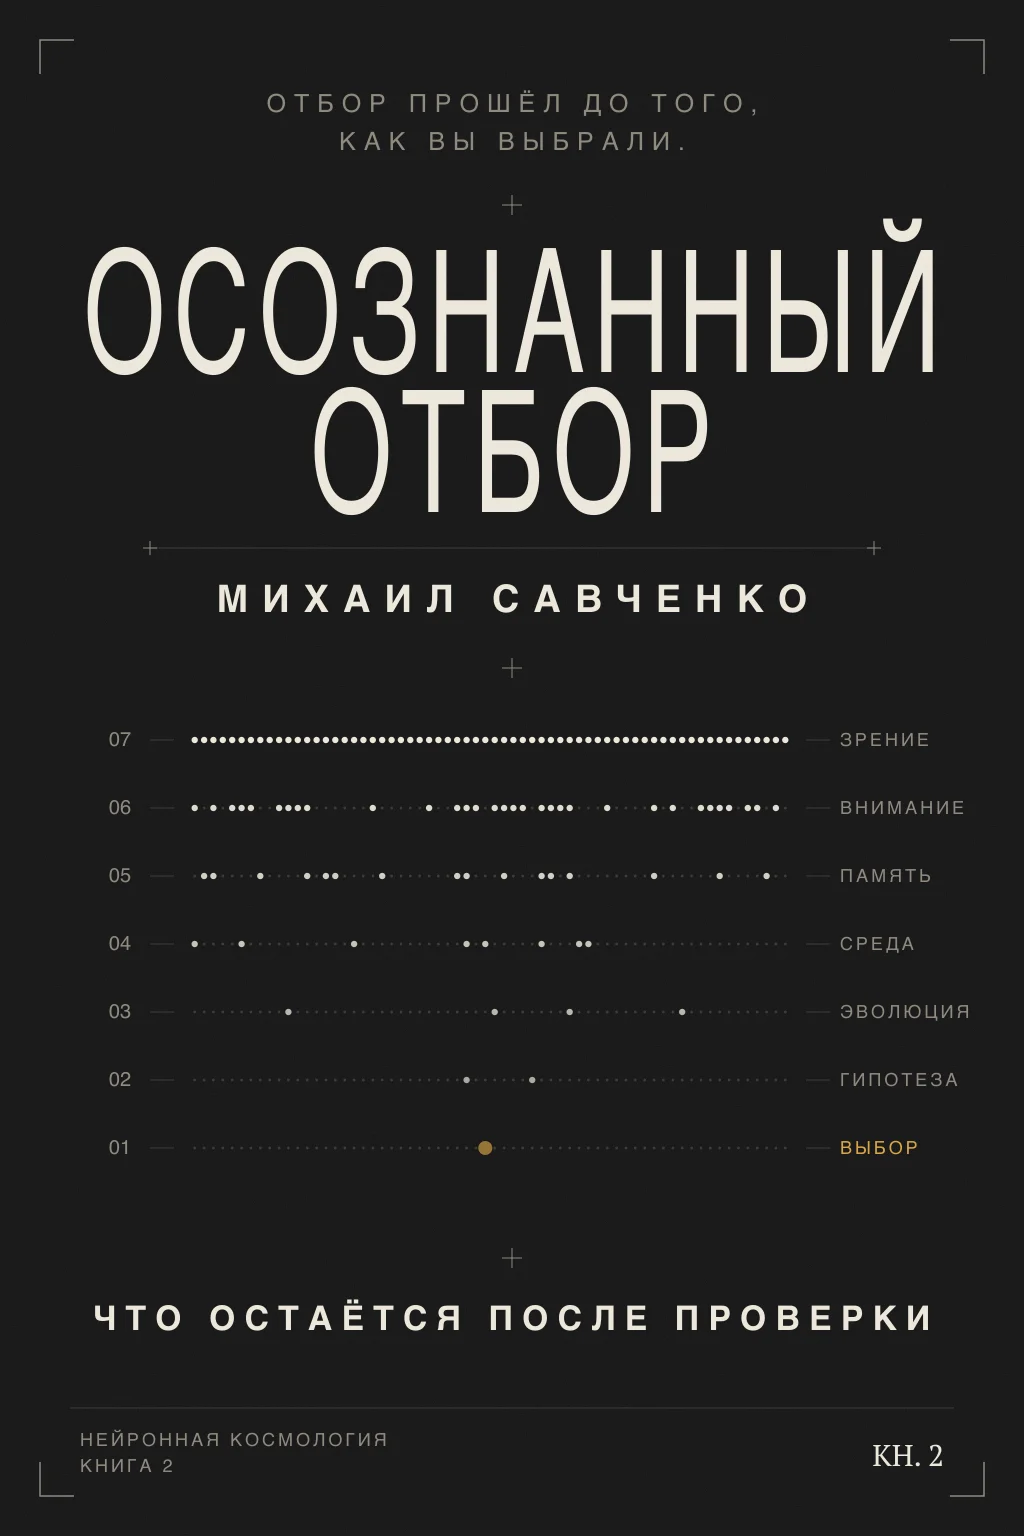
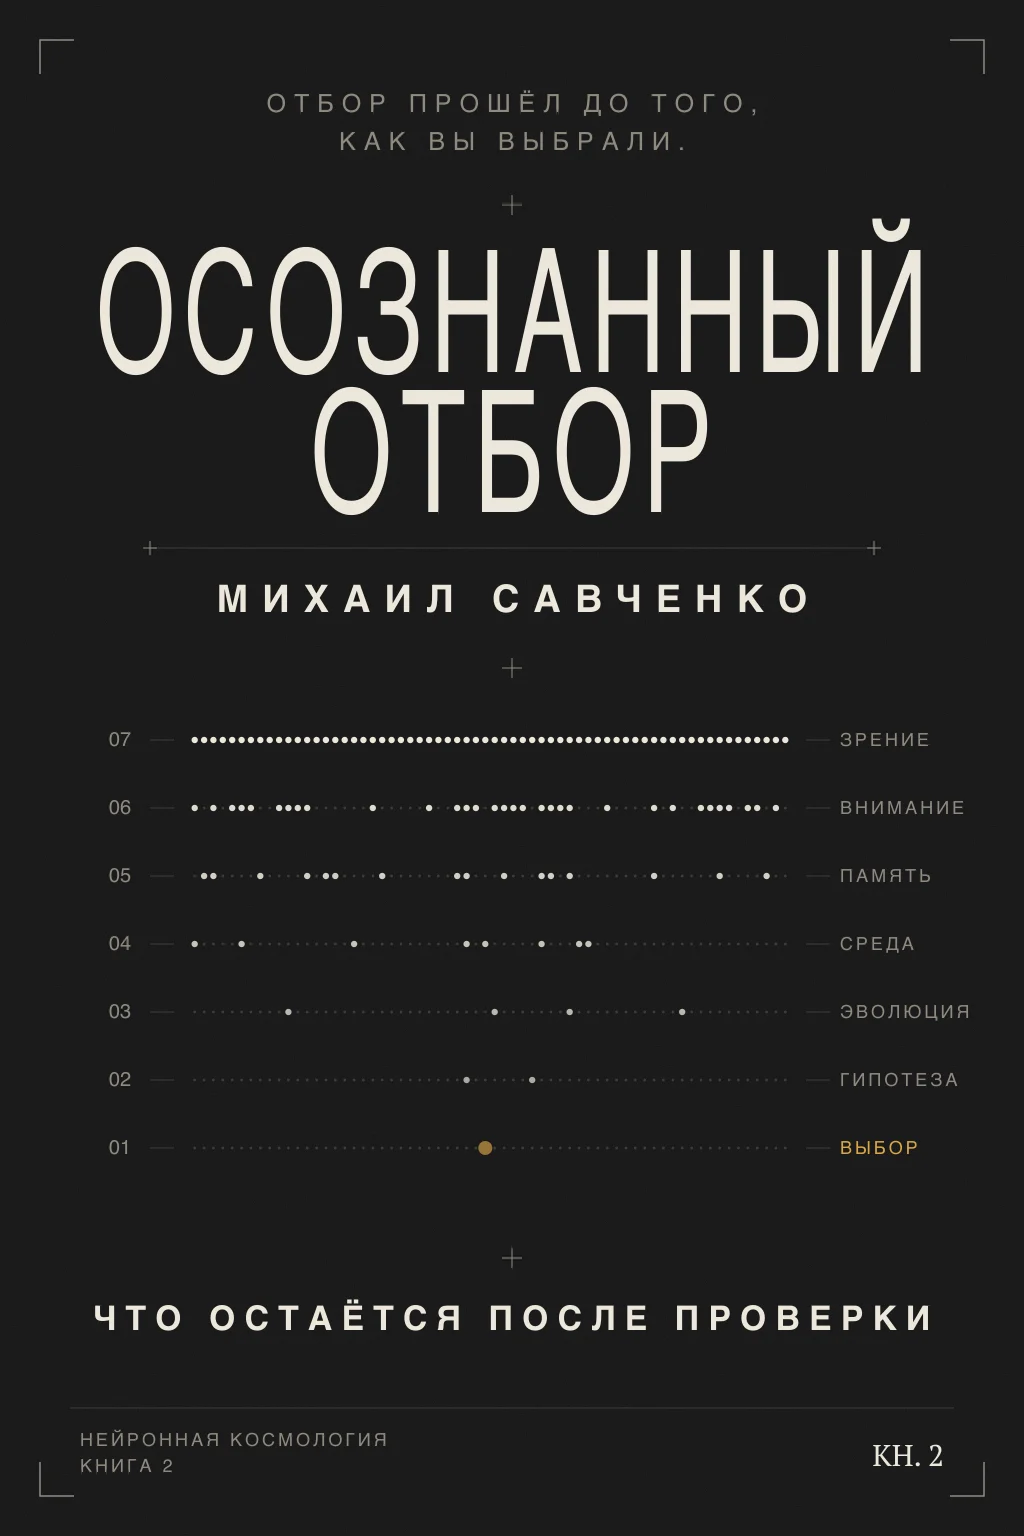
Обложки книг на языке страницы: en/pt/es переведены, ru — оригинал из книги. (#4)
- «Небесный Код», «Академия Багов», «Эра Архитекторов»: переводы оригинальных обложек
  (gpt-image-2 по образцу, рисунок и вёрстка те же; исходники и plan.json в
  godacademy/assets/covers/src/neuralcosmology-i18n). В «Академии» игра слов сохранена:
  GODS / DEUSES / DIOSES зачёркнуты, сверху BUG(S).
- «Осознанный Отбор»: генератор принимает язык (scripts/covers/conscious-selection.py ru|en|pt|es).
- coverFor/ogCoverFor: карточки, страница книги, главная, OG и Book-разметка, books/index.json, MCP.
- Описание проверки текста на ИИ уточнено по просьбе сессии mikefluff.com: подсвечивает
  обороты, по которым текст читается как ChatGPT, авторство не определяет.

diff --git a/src/content/other-books.ts b/src/content/other-books.ts
@@ -32,24 +32,24 @@ export const OTHER_BOOKS_COPY: Record<SupportedLocale, { label: string; all: str
     label: "Other books by the author",
     all: "All of Mikhail Savchenko's books, read online",
     checker: "AI text checker",
-    checkerAbout: "tells whether a text in English, Russian, Spanish or Portuguese was written by a language model; runs in the browser",
+    checkerAbout: "highlights the phrases that make a text in English, Russian, Spanish or Portuguese read like ChatGPT; runs in the browser",
   },
   ru: {
     label: "Другие книги автора",
     all: "Все книги Михаила Савченко, читать онлайн",
     checker: "Проверка текста на ИИ",
-    checkerAbout: "показывает, написан ли текст на русском, английском, испанском или португальском языковой моделью; работает в браузере",
+    checkerAbout: "подсвечивает обороты, по которым текст на русском, английском, испанском или португальском читается как написанный ChatGPT; работает в браузере",
   },
   pt: {
     label: "Outros livros do autor",
     all: "Todos os livros de Mikhail Savchenko, para ler online",
     checker: "Verificador de texto de IA",
-    checkerAbout: "mostra se um texto em português, inglês, espanhol ou russo foi escrito por um modelo de linguagem; funciona no navegador",
+    checkerAbout: "destaca as frases que fazem um texto em português, inglês, espanhol ou russo soar como ChatGPT; funciona no navegador",
   },
   es: {
     label: "Otros libros del autor",
     all: "Todos los libros de Mikhail Savchenko, para leer en línea",
     checker: "Detector de texto de IA",
-    checkerAbout: "indica si un texto en español, inglés, portugués o ruso lo escribió un modelo de lenguaje; funciona en el navegador",
+    checkerAbout: "resalta las frases que hacen que un texto en español, inglés, portugués o ruso suene a ChatGPT; funciona en el navegador",
   },
 };

diff --git a/src/app/[locale]/books/[slug]/page.tsx b/src/app/[locale]/books/[slug]/page.tsx
@@ -4,7 +4,7 @@ import { social } from "@/lib/og";
 import { notFound } from "next/navigation";
 import Link from "next/link";
 import Image from "next/image";
-import { getBookBySlug } from "@/content/books";
+import { coverFor, getBookBySlug, ogCoverFor } from "@/content/books";
 import { Sheet, Label, Headline } from "@/components/system";
 import { isSupportedLocale, SUPPORTED_LOCALES, type SupportedLocale } from "@/lib/get-locale";
 import { getDict, pickLocalized } from "@/lib/i18n";
@@ -55,7 +55,7 @@ export async function generateMetadata({
         "x-default": `${base}/en/books/${slug}`,
       },
     },
-    ...social({ title, description: hook, url: `${base}/${locale}/books/${slug}`, kind: "book", locale, type: "book", image: `/og/covers/${slug}.png` }),
+    ...social({ title, description: hook, url: `${base}/${locale}/books/${slug}`, kind: "book", locale, type: "book", image: ogCoverFor(slug, locale) }),
   };
 }
 
@@ -115,7 +115,7 @@ export default async function BookDetailPage({
           synopsis,
           genre: genreLabel[book.genre],
           status: book.status,
-          coverImage: book.coverImage,
+          coverImage: coverFor(book, locale),
           availableTranslations,
           publicationDate: book.publicationDate,
           pages: book.pages,
@@ -145,7 +145,7 @@ export default async function BookDetailPage({
         <div className="grid lg:grid-cols-[minmax(0,5fr)_minmax(0,7fr)]">
           <div className="py-10 md:px-10 lg:rule-r lg:py-16">
             <div className="relative mx-auto aspect-[2/3] max-w-sm overflow-hidden hairline lg:max-w-none">
-              <Image src={book.coverImage} alt={title} fill sizes="(min-width: 1024px) 460px, 90vw" className="object-cover" priority />
+              <Image src={coverFor(book, locale)} alt={title} fill sizes="(min-width: 1024px) 460px, 90vw" className="object-cover" priority />
             </div>
           </div>
 

diff --git a/src/app/[locale]/read/[slug]/[chapter]/page.tsx b/src/app/[locale]/read/[slug]/[chapter]/page.tsx
@@ -3,7 +3,7 @@ import { Price, CurrencyPicker } from "@/components/pricing/Price";
 import { clipDescription, social } from "@/lib/og";
 import Link from "next/link";
 import { notFound } from "next/navigation";
-import { getBookBySlug } from "@/content/books";
+import { getBookBySlug, ogCoverFor } from "@/content/books";
 import { isSupportedLocale, type SupportedLocale } from "@/lib/get-locale";
 import { getDict, pickLocalized } from "@/lib/i18n";
 import { chapterIndexable, getChapterHtml, getManifest, leadIn, libraryLangs, resolveBookLang, topLevelAt, type LibraryChapter } from "@/lib/library";
@@ -72,7 +72,7 @@ export async function generateMetadata({ params }: { params: Params }): Promise<
     : undefined;
   // Превью ссылки — иллюстрация главы, если она есть; иначе обложка книги.
   const lead = leadIllustration(illustrations(slug, id));
-  const image = lead ? `/book/ill/${lead.id}.og.jpg` : `/og/covers/${slug}.png`;
+  const image = lead ? `/book/ill/${lead.id}.og.jpg` : ogCoverFor(slug, d.lang);
   return {
     title,
     description: clipDescription(d.chapter.excerpt),

diff --git a/src/components/home/sections.tsx b/src/components/home/sections.tsx
@@ -2,7 +2,7 @@ import Image from "next/image";
 import Link from "next/link";
 import type { SupportedLocale } from "@/lib/get-locale";
 import { getDict } from "@/lib/i18n";
-import { books } from "@/content/books";
+import { books, coverFor } from "@/content/books";
 import { pickLocalized } from "@/lib/i18n";
 import { faqByLocale } from "@/content/faq";
 import type { CSSProperties, ReactNode } from "react";
@@ -500,7 +500,7 @@ export function HomeBooks({ locale }: { locale: SupportedLocale }) {
                 tabIndex={-1}
                 className="absolute right-6 bottom-8 hidden w-[34%] max-w-44 rotate-[4deg] shadow-[0_24px_60px_-20px_rgb(0_0_0/.7)] transition-transform duration-700 ease-(--ease-soft) group-hover:-translate-y-2 group-hover:rotate-[2deg] sm:block md:-right-3 md:bottom-auto md:top-24 lg:-right-5"
               >
-                <Image src={b.coverImage} alt="" width={600} height={900} sizes="200px" className="h-auto w-full" />
+                <Image src={coverFor(b, locale)} alt="" width={600} height={900} sizes="200px" className="h-auto w-full" />
               </Link>
             </article>
           );

diff --git a/src/components/ui/BookCard.tsx b/src/components/ui/BookCard.tsx
@@ -3,6 +3,7 @@ import Image from "next/image";
 import type { Book } from "@/types/book";
 import type { SupportedLocale } from "@/lib/get-locale";
 import { getDict, pickLocalized } from "@/lib/i18n";
+import { coverFor } from "@/content/books";
 
 // Ячейка книги: обложка → жанр/статус → название → хук. Без скруглений и теней.
 export default function BookCard({ book, locale, index }: { book: Book; locale: SupportedLocale; index?: number }) {
@@ -18,7 +19,7 @@ export default function BookCard({ book, locale, index }: { book: Book; locale: 
     <Link href={`/${locale}/books/${book.slug}`} className="group flex flex-col bg-bg p-5 md:p-7 transition-colors hover:bg-bg-raised">
       <div className="relative aspect-[2/3] overflow-hidden bg-bg-sunk hairline">
         <Image
-          src={book.coverImage}
+          src={coverFor(book, locale)}
           alt={title}
           fill
           sizes="(min-width: 1280px) 280px, (min-width: 640px) 45vw, 100vw"

diff --git a/src/lib/agent/mcp.ts b/src/lib/agent/mcp.ts
@@ -5,7 +5,7 @@ import { search } from "@/lib/agent/search";
 import { catalog } from "@/lib/agent/catalog";
 import { CheckoutError, createAgentCheckout } from "@/lib/agent/checkout";
 import { ownsBook } from "@/lib/access";
-import { books } from "@/content/books";
+import { books, coverFor } from "@/content/books";
 import { siteUrl } from "@/lib/auth";
 import {
   catalogApp,
@@ -160,7 +160,7 @@ async function callTool(name: string, args: Record<string, unknown>, ctx: Ctx): 
         .map((b) => ({
           title: b.titles[locale] ?? b.titles.en,
           subtitle: (b.hook as Record<string, string>)[locale] ?? (b.hook as Record<string, string>).en,
-          image: b.coverImage ? `${site}${b.coverImage}` : undefined,
+          image: b.coverImage ? `${site}${coverFor(b, locale)}` : undefined,
           price: formatPrice(PRICES.book.USD, "USD"),
           url: `${site}/${locale}/books/${b.slug}`,
           ...(ctx.reader

diff --git a/src/lib/schema.ts b/src/lib/schema.ts
@@ -1,5 +1,6 @@
 import type { SupportedLocale } from "@/lib/get-locale";
 import { SUPPORTED_LOCALES } from "@/lib/get-locale";
+import { ogCoverFor } from "@/content/books";
 
 export const SITE_URL = "https://neuralcosmology.com";
 export const AUTHOR_NAME = "Mikhail Savchenko";
@@ -192,7 +193,7 @@ export function bookSchema(args: {
     bookFormat: "https://schema.org/EBook",
     creativeWorkStatus: bookStatus,
     // Растровая обложка первой: SVG Google в расширенных результатах не берёт.
-    image: [`${SITE_URL}/og/covers/${args.slug}.png`, cover],
+    image: [`${SITE_URL}${ogCoverFor(args.slug, args.locale)}`, cover],
     author: { "@id": `${SITE_URL}/#person` },
     publisher: { "@id": `${SITE_URL}/#organization` },
     isPartOf: { "@id": `${SITE_URL}/#website` },

diff --git a/src/content/books.ts b/src/content/books.ts
@@ -184,6 +184,16 @@ export const books: Book[] = [
   },
 ];
 
+// Обложка на языке страницы: ru — оригинал из книги (/covers/<slug>.webp),
+// en/pt/es — переведённые (/covers/<slug>-<lang>.webp). OG-версии — PNG 600×900 в /og/covers.
+export function coverFor(book: Pick<Book, "coverImage">, locale: string): string {
+  return locale === "ru" ? book.coverImage : book.coverImage.replace(/\.webp$/, `-${locale}.webp`);
+}
+
+export function ogCoverFor(slug: string, locale: string): string {
+  return locale === "ru" ? `/og/covers/${slug}.png` : `/og/covers/${slug}-${locale}.png`;
+}
+
 export function getBookBySlug(slug: string): Book | undefined {
   return books.find((b) => b.slug === slug);
 }

diff --git a/src/app/[locale]/books/index.json/route.ts b/src/app/[locale]/books/index.json/route.ts
@@ -1,4 +1,4 @@
-import { books } from "@/content/books";
+import { books, coverFor } from "@/content/books";
 import { isSupportedLocale, SUPPORTED_LOCALES, type SupportedLocale } from "@/lib/get-locale";
 import { pickLocalized } from "@/lib/i18n";
 
@@ -29,7 +29,7 @@ export async function GET(
       genre: b.genre,
       pages: b.pages,
       publicationDate: b.publicationDate,
-      coverImage: `https://neuralcosmology.com${b.coverImage}`,
+      coverImage: `https://neuralcosmology.com${coverFor(b, locale)}`,
       companionPaperSlug: b.companionPaperSlug,
       url: `https://neuralcosmology.com/${locale}/books/${b.slug}`,
     })),

diff --git a/scripts/covers/conscious-selection.py b/scripts/covers/conscious-selection.py
@@ -1,7 +1,25 @@
 # Обложка «Осознанного Отбора» в системе обложек серии (ср. nk-cover.png «Небесного Кода»):
 # тёмное поле, метки обреза, узкий набор вразрядку. Своей обложки у книги в godacademy нет,
 # это рабочий вариант до настоящей. SVG -> PNG через rsvg-convert, затем webp (cwebp или sips).
-import os, random, subprocess
+import os, random, subprocess, sys
+
+# Надписи по языкам; ru — оригинал.
+TEXT = {
+    "ru": dict(top=("ОТБОР ПРОШЁЛ ДО ТОГО,", "КАК ВЫ ВЫБРАЛИ."), title=("ОСОЗНАННЫЙ", "ОТБОР"), author="МИХАИЛ САВЧЕНКО",
+               stages=["ЗРЕНИЕ", "ВНИМАНИЕ", "ПАМЯТЬ", "СРЕДА", "ЭВОЛЮЦИЯ", "ГИПОТЕЗА", "ВЫБОР"],
+               sub="ЧТО ОСТАЁТСЯ ПОСЛЕ ПРОВЕРКИ", series=("НЕЙРОННАЯ КОСМОЛОГИЯ", "КНИГА 2"), bk="КН. 2"),
+    "en": dict(top=("SELECTION HAPPENED", "BEFORE YOU CHOSE."), title=("CONSCIOUS", "SELECTION"), author="MIKHAIL SAVCHENKO",
+               stages=["SIGHT", "ATTENTION", "MEMORY", "ENVIRONMENT", "EVOLUTION", "HYPOTHESIS", "CHOICE"],
+               sub="WHAT REMAINS AFTER TESTING", series=("NEURAL COSMOLOGY", "BOOK 2"), bk="BK. 2"),
+    "pt": dict(top=("A SELEÇÃO ACONTECEU", "ANTES DE VOCÊ ESCOLHER."), title=("SELEÇÃO", "CONSCIENTE"), author="MIKHAIL SAVCHENKO",
+               stages=["VISÃO", "ATENÇÃO", "MEMÓRIA", "AMBIENTE", "EVOLUÇÃO", "HIPÓTESE", "ESCOLHA"],
+               sub="O QUE RESTA DEPOIS DO TESTE", series=("COSMOLOGIA NEURAL", "LIVRO 2"), bk="LIV. 2"),
+    "es": dict(top=("LA SELECCIÓN OCURRIÓ", "ANTES DE QUE ELIGIERAS."), title=("SELECCIÓN", "CONSCIENTE"), author="MIKHAIL SAVCHENKO",
+               stages=["VISTA", "ATENCIÓN", "MEMORIA", "ENTORNO", "EVOLUCIÓN", "HIPÓTESIS", "ELECCIÓN"],
+               sub="LO QUE QUEDA TRAS LA PRUEBA", series=("COSMOLOGÍA NEURAL", "LIBRO 2"), bk="LIB. 2"),
+}
+LANG = sys.argv[1] if len(sys.argv) > 1 else "ru"
+L = TEXT[LANG]
 random.seed(11)
 W, H = 1024, 1536
 BG, FG, MUTED, LINE, AMBER = "#151515", "#ece6da", "#8d877c", "#3a3835", "#d9a441"
@@ -26,23 +44,25 @@ def spaced(y, text, size, fill=MUTED, spacing=8, family=F, weight="normal"):
     a(f'<text x="{W/2}" y="{y}" text-anchor="middle" font-family="{family}" font-weight="{weight}" '
       f'font-size="{size}" letter-spacing="{spacing}" fill="{fill}">{text}</text>')
 
-spaced(112, "ОТБОР ПРОШЁЛ ДО ТОГО,", 25)
-spaced(150, "КАК ВЫ ВЫБРАЛИ.", 25)
+spaced(112, L["top"][0], 25)
+spaced(150, L["top"][1], 25)
 cross(W / 2, 205)
 # Высокий узкий заголовок, как на «Небесном Коде»: обычный гротеск, сжатый по горизонтали.
 def title(y, text, size):
-    a(f'<text transform="translate({W/2},{y}) scale(0.62,1)" text-anchor="middle" font-family="{T}" '
+    # Длинное слово сжимается сильнее, чтобы влезть в поле ~760px.
+    k = min(0.62, 760 / (len(text) * size * 0.66 + 14 * len(text)))
+    a(f'<text transform="translate({W/2},{y}) scale({k:.3f},1)" text-anchor="middle" font-family="{T}" '
       f'font-size="{size}" letter-spacing="14" fill="{FG}">{text}</text>')
 
-title(372, "ОСОЗНАННЫЙ", 170)
-title(512, "ОТБОР", 170)
+title(372, L["title"][0], 170)
+title(512, L["title"][1], 170)
 a(f'<line x1="150" y1="548" x2="{W-150}" y2="548" stroke="{LINE}"/>')
 cross(150, 548, 7); cross(W - 150, 548, 7)
-spaced(612, "МИХАИЛ САВЧЕНКО", 38, FG, 14, F, "bold")
+spaced(612, L["author"], 38, FG, 14, F, "bold")
 cross(W / 2, 668)
 
 # Воронка отбора: на каждом этаже остаётся половина, до одной точки.
-stages = ["ЗРЕНИЕ", "ВНИМАНИЕ", "ПАМЯТЬ", "СРЕДА", "ЭВОЛЮЦИЯ", "ГИПОТЕЗА", "ВЫБОР"]
+stages = L["stages"]
 x0, x1, top, step = 190, 790, 740, 68
 for i, label in enumerate(stages):
     y = top + i * step
@@ -59,21 +79,22 @@ for i, label in enumerate(stages):
         else:
             a(f'<circle cx="{x:.1f}" cy="{y}" r="1.4" fill="{LINE}"/>')
     a(f'<line x1="{x1+16}" y1="{y}" x2="{x1+40}" y2="{y}" stroke="{LINE}"/>')
-    a(f'<text x="{x1+50}" y="{y+6}" font-family="{F}" font-size="18" letter-spacing="3" fill="{AMBER if i == 6 else MUTED}">{label}</text>')
+    a(f'<text x="{x1+50}" y="{y+6}" font-family="{F}" font-size="{18 if len(label) <= 10 else 15}" letter-spacing="{3 if len(label) <= 10 else 2}" fill="{AMBER if i == 6 else MUTED}">{label}</text>')
 
 cross(W / 2, 1258)
-spaced(1330, "ЧТО ОСТАЁТСЯ ПОСЛЕ ПРОВЕРКИ", 34, FG, 9, F, "bold")
+spaced(1330, L["sub"], 34, FG, 9, F, "bold")
 a(f'<line x1="70" y1="1408" x2="{W-70}" y2="1408" stroke="{LINE}"/>')
-a(f'<text x="80" y="1446" font-family="{F}" font-size="18" letter-spacing="3" fill="{MUTED}">НЕЙРОННАЯ КОСМОЛОГИЯ</text>')
-a(f'<text x="80" y="1472" font-family="{F}" font-size="18" letter-spacing="3" fill="{MUTED}">КНИГА 2</text>')
-a(f'<text x="{W-80}" y="1466" text-anchor="end" font-family="PT Serif" font-size="30" fill="{FG}">КН. 2</text>')
+a(f'<text x="80" y="1446" font-family="{F}" font-size="18" letter-spacing="3" fill="{MUTED}">{L["series"][0]}</text>')
+a(f'<text x="80" y="1472" font-family="{F}" font-size="18" letter-spacing="3" fill="{MUTED}">{L["series"][1]}</text>')
+a(f'<text x="{W-80}" y="1466" text-anchor="end" font-family="PT Serif" font-size="30" fill="{FG}">{L["bk"]}</text>')
 a(f'<rect width="{W}" height="{H}" filter="url(#grain)"/>')
 a('</svg>')
 
 here = os.path.dirname(os.path.abspath(__file__))
 out = os.path.join(here, "..", "..", "public", "covers")
-svg = os.path.join(here, "conscious-selection.svg")
-png = os.path.join(here, "conscious-selection.png")
+name = "conscious-selection" + ("" if LANG == "ru" else f"-{LANG}")
+svg = os.path.join(here, f"{name}.svg")
+png = os.path.join(here, f"{name}.png")
 open(svg, "w").write("\n".join(o))
 subprocess.run(["rsvg-convert", "-w", str(W), "-h", str(H), svg, "-o", png], check=True)
 print(png)
